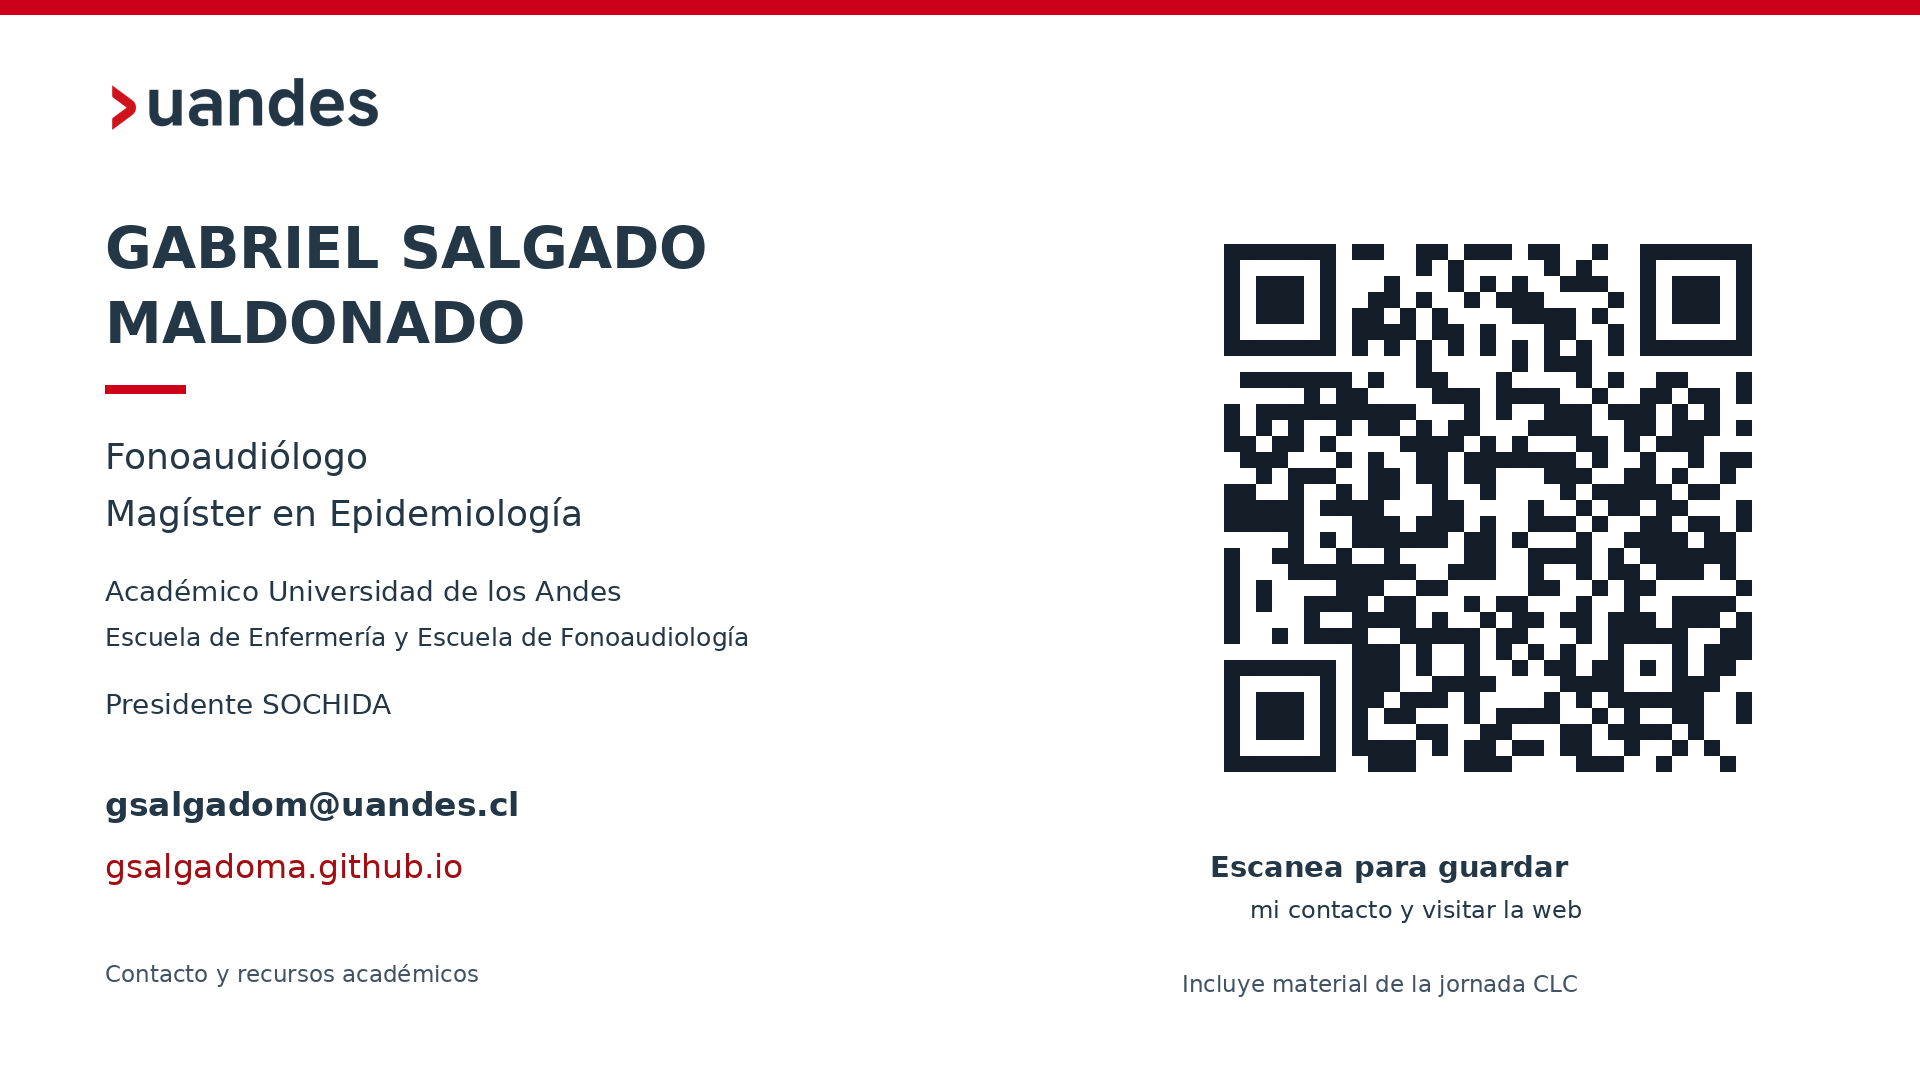
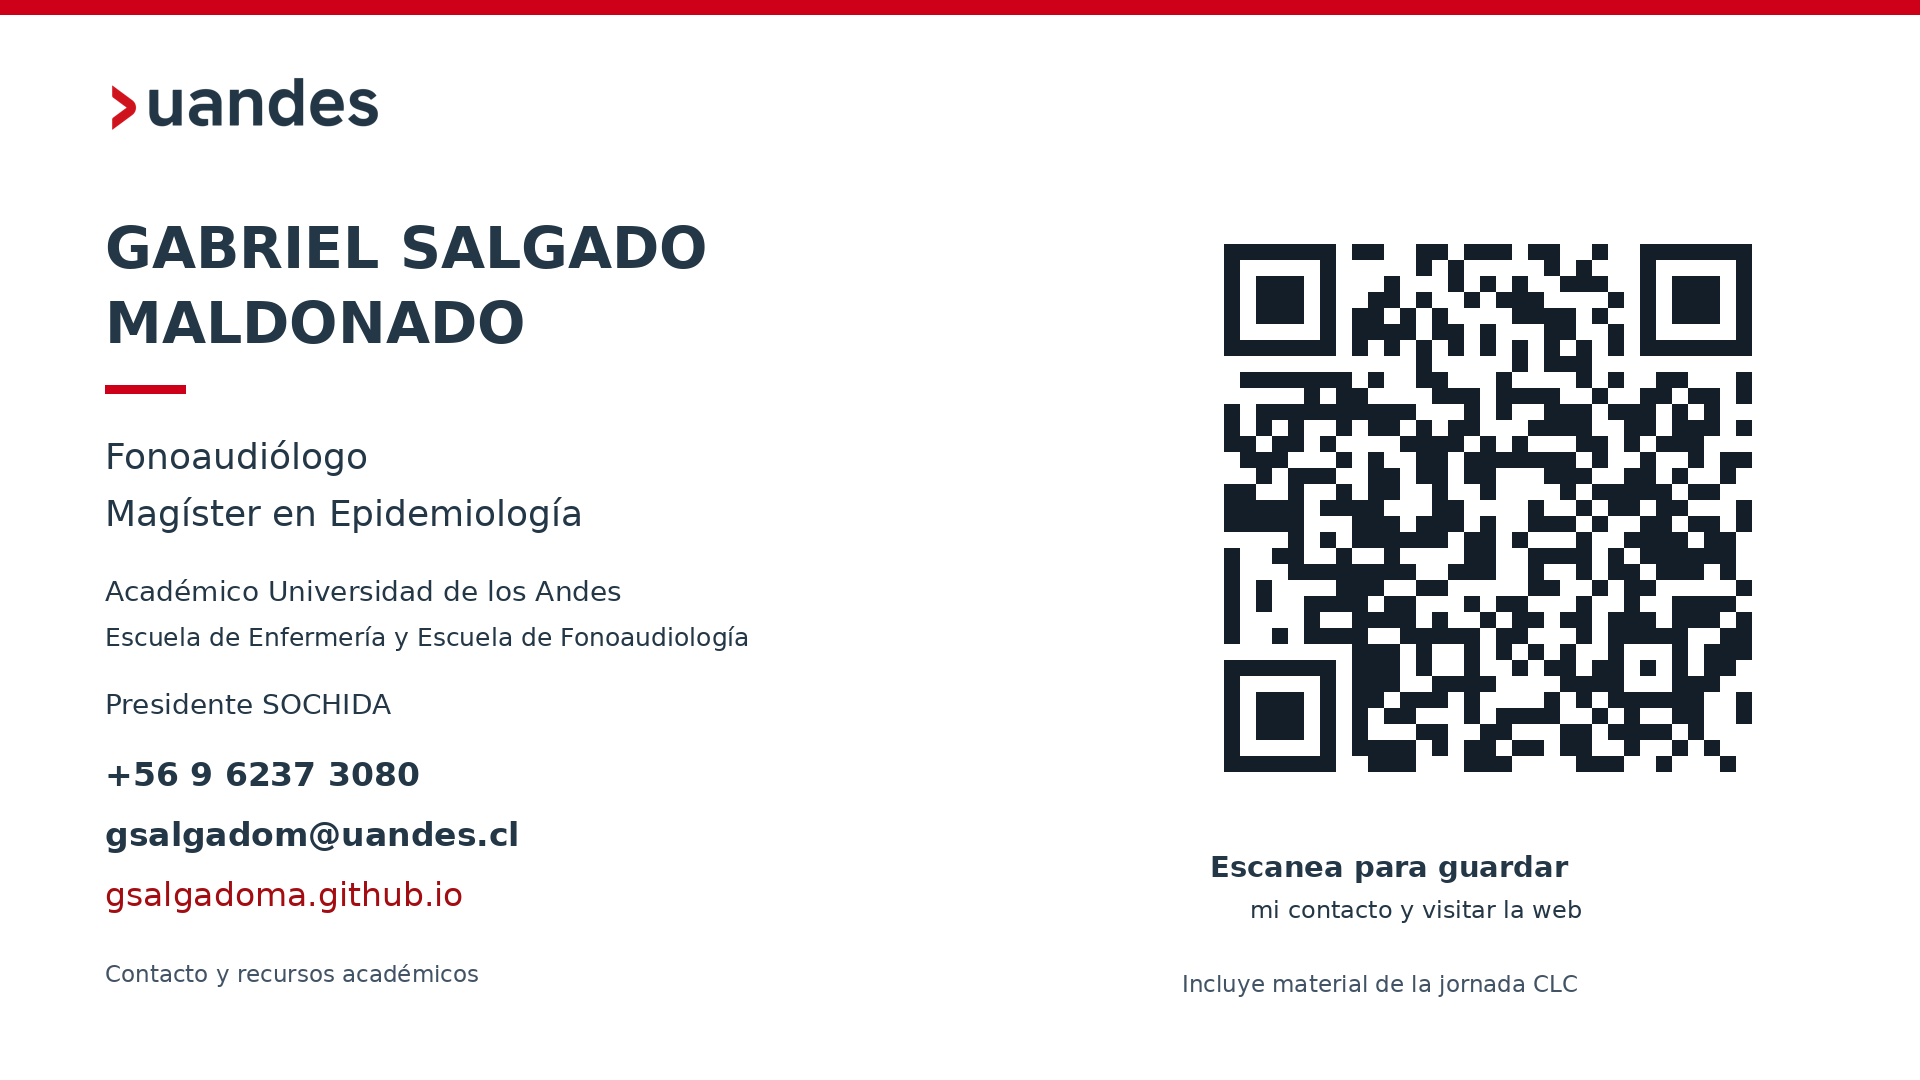
Incorpora teléfono en vCard y tarjeta de contacto

Changed region(s): [[0.0312, 0.7028, 0.2812, 0.8556]]

diff --git a/contacto-gabriel/index.html b/contacto-gabriel/index.html
@@ -1,1 +1,1 @@
-<!doctype html><html lang="es"><head><meta charset="utf-8"><meta name="viewport" content="width=device-width,initial-scale=1"><title>Contacto | Gabriel Salgado Maldonado</title><meta name="description" content="Guarda el contacto de Gabriel Salgado Maldonado y accede a su web y materiales académicos."><meta name="theme-color" content="#CE0019"><link rel="canonical" href="https://gsalgadoma.github.io/contacto-gabriel/"><link rel="preconnect" href="https://fonts.googleapis.com"><link rel="preconnect" href="https://fonts.gstatic.com" crossorigin><link href="https://fonts.googleapis.com/css2?family=DM+Sans:wght@400;500;600;700&display=swap" rel="stylesheet"><style>*{box-sizing:border-box}body{margin:0;border-top:5px solid #CE0019;background:#f4f2ef;color:#243746;font-family:'DM Sans',Arial,sans-serif;line-height:1.6}main{width:min(660px,calc(100% - 32px));margin:35px auto;background:white;padding:38px;border:1px solid #D6D1CA;border-radius:12px}.logo{width:180px;max-width:60%;height:auto;margin:0 0 20px}.kicker{font-size:.72rem;color:#A30D12;font-weight:700;letter-spacing:.1em;text-transform:uppercase}h1{font-size:clamp(2rem,6vw,2.8rem);line-height:1.12;letter-spacing:-.035em;margin:10px 0 20px}h2{font-size:1.1rem;margin-top:28px}p{margin:10px 0;color:#415364}.role{font-weight:600;color:#243746}.affiliation{font-size:.9rem}.links{display:grid;gap:12px;margin:28px 0}a{color:#A30D12;text-underline-offset:4px}a:focus-visible,summary:focus-visible{outline:3px solid #CE0019;outline-offset:4px}.button{display:block;border-radius:6px;border:1px solid #CE0019;padding:14px 18px;text-align:center;text-decoration:none;font-weight:700;min-height:52px}.primary{background:#CE0019;color:white}.button:hover{background:#8A001A;color:white}.secondary{border-color:#243746;color:#243746}details{border-top:1px solid #D6D1CA;padding-top:20px;margin-top:28px}summary{cursor:pointer;font-weight:600}.qr{display:block;width:240px;max-width:100%;margin:20px auto}.small{font-size:.8rem}.email{overflow-wrap:anywhere}.social{display:flex;gap:22px;flex-wrap:wrap}.footer{font-size:.76rem;text-align:center;margin-top:30px;color:#415364}@media(max-width:480px){main{padding:25px;margin:18px auto}}@media print{body{background:white}main{border:0}.links{display:none}details{display:block}}</style></head><body><main><img class="logo" src="../disfagia-alta/marca/uandes.png" alt="Uandes Universidad de los Andes" width="2048" height="606"><p class="kicker">Contacto académico y profesional</p><h1>Gabriel Salgado<br>Maldonado</h1><p class="role">Fonoaudiólogo · Magíster en Epidemiología</p><p class="affiliation">Académico Universidad de los Andes<br>Escuela de Enfermería y Escuela de Fonoaudiología<br>Presidente Sociedad Chilena de Deglución y Alimentación (SOCHIDA)</p><h2>Correo institucional</h2><a class="email" href="mailto:gsalgadom@uandes.cl">gsalgadom@uandes.cl</a><div class="links"><a class="button primary" href="Gabriel_Salgado_Maldonado.vcf" download="Gabriel_Salgado_Maldonado.vcf">Guardar en mis contactos ↓</a><a class="button secondary" href="https://gsalgadoma.github.io/">Visitar mi web académica ↗</a><a class="button secondary" href="/disfagia-alta/">Material de la jornada CLC ↗</a></div><p class="small">El archivo de contacto incluye el correo institucional, los datos profesionales y los enlaces a la web y a la charla. Al abrirlo, selecciona crear o añadir contacto en tu teléfono.</p><div class="social"><a href="https://www.instagram.com/fonoaudiologiainforma/" target="_blank" rel="noopener">Instagram ↗</a><a href="https://orcid.org/0000-0002-4897-8863" target="_blank" rel="noopener">ORCID ↗</a></div><details><summary>Compartir mi tarjeta</summary><img class="qr" src="QR_Gabriel_Salgado.png" alt="QR que abre esta tarjeta de contacto" width="984" height="984"><p class="small">Escanea para ver los datos, guardar el contacto y acceder a los recursos.</p><p><a href="QR_Gabriel_Salgado.png" download>Descargar QR</a> · <a href="Tarjeta_contacto_presentacion.png" download>Descargar imagen para presentación</a></p></details><p class="footer">Gabriel Salgado Maldonado · Santiago, Chile</p></main></body></html>
+<!doctype html><html lang="es"><head><meta charset="utf-8"><meta name="viewport" content="width=device-width,initial-scale=1"><title>Contacto | Gabriel Salgado Maldonado</title><meta name="description" content="Guarda el contacto de Gabriel Salgado Maldonado y accede a su web y materiales académicos."><meta name="theme-color" content="#CE0019"><link rel="canonical" href="https://gsalgadoma.github.io/contacto-gabriel/"><link rel="preconnect" href="https://fonts.googleapis.com"><link rel="preconnect" href="https://fonts.gstatic.com" crossorigin><link href="https://fonts.googleapis.com/css2?family=DM+Sans:wght@400;500;600;700&display=swap" rel="stylesheet"><style>*{box-sizing:border-box}body{margin:0;border-top:5px solid #CE0019;background:#f4f2ef;color:#243746;font-family:'DM Sans',Arial,sans-serif;line-height:1.6}main{width:min(660px,calc(100% - 32px));margin:35px auto;background:white;padding:38px;border:1px solid #D6D1CA;border-radius:12px}.logo{width:180px;max-width:60%;height:auto;margin:0 0 20px}.kicker{font-size:.72rem;color:#A30D12;font-weight:700;letter-spacing:.1em;text-transform:uppercase}h1{font-size:clamp(2rem,6vw,2.8rem);line-height:1.12;letter-spacing:-.035em;margin:10px 0 20px}h2{font-size:1.1rem;margin-top:28px}p{margin:10px 0;color:#415364}.role{font-weight:600;color:#243746}.affiliation{font-size:.9rem}.links{display:grid;gap:12px;margin:28px 0}a{color:#A30D12;text-underline-offset:4px}a:focus-visible,summary:focus-visible{outline:3px solid #CE0019;outline-offset:4px}.button{display:block;border-radius:6px;border:1px solid #CE0019;padding:14px 18px;text-align:center;text-decoration:none;font-weight:700;min-height:52px}.primary{background:#CE0019;color:white}.button:hover{background:#8A001A;color:white}.secondary{border-color:#243746;color:#243746}details{border-top:1px solid #D6D1CA;padding-top:20px;margin-top:28px}summary{cursor:pointer;font-weight:600}.qr{display:block;width:240px;max-width:100%;margin:20px auto}.small{font-size:.8rem}.email{overflow-wrap:anywhere}.social{display:flex;gap:22px;flex-wrap:wrap}.footer{font-size:.76rem;text-align:center;margin-top:30px;color:#415364}@media(max-width:480px){main{padding:25px;margin:18px auto}}@media print{body{background:white}main{border:0}.links{display:none}details{display:block}}</style></head><body><main><img class="logo" src="../disfagia-alta/marca/uandes.png" alt="Uandes Universidad de los Andes" width="2048" height="606"><p class="kicker">Contacto académico y profesional</p><h1>Gabriel Salgado<br>Maldonado</h1><p class="role">Fonoaudiólogo · Magíster en Epidemiología</p><p class="affiliation">Académico Universidad de los Andes<br>Escuela de Enfermería y Escuela de Fonoaudiología<br>Presidente Sociedad Chilena de Deglución y Alimentación (SOCHIDA)</p><h2>Teléfono de contacto</h2><a href="tel:+56962373080">+56 9 6237 3080</a><p><a href="https://wa.me/56962373080" target="_blank" rel="noopener">Abrir WhatsApp ↗</a></p><h2>Correo institucional</h2><a class="email" href="mailto:gsalgadom@uandes.cl">gsalgadom@uandes.cl</a><div class="links"><a class="button primary" href="Gabriel_Salgado_Maldonado.vcf" download="Gabriel_Salgado_Maldonado.vcf">Guardar en mis contactos ↓</a><a class="button secondary" href="https://gsalgadoma.github.io/">Visitar mi web académica ↗</a><a class="button secondary" href="/disfagia-alta/">Material de la jornada CLC ↗</a></div><p class="small">El archivo de contacto incluye el teléfono, el correo institucional, los datos profesionales y los enlaces a la web y a la charla. Al abrirlo, selecciona crear o añadir contacto en tu teléfono.</p><div class="social"><a href="https://www.instagram.com/fonoaudiologiainforma/" target="_blank" rel="noopener">Instagram ↗</a><a href="https://orcid.org/0000-0002-4897-8863" target="_blank" rel="noopener">ORCID ↗</a></div><details><summary>Compartir mi tarjeta</summary><img class="qr" src="QR_Gabriel_Salgado.png" alt="QR que abre esta tarjeta de contacto" width="984" height="984"><p class="small">Escanea para ver los datos, guardar el contacto y acceder a los recursos.</p><p><a href="QR_Gabriel_Salgado.png" download>Descargar QR</a> · <a href="Tarjeta_contacto_presentacion.png" download>Descargar imagen para presentación</a></p></details><p class="footer">Gabriel Salgado Maldonado · Santiago, Chile</p></main></body></html>
